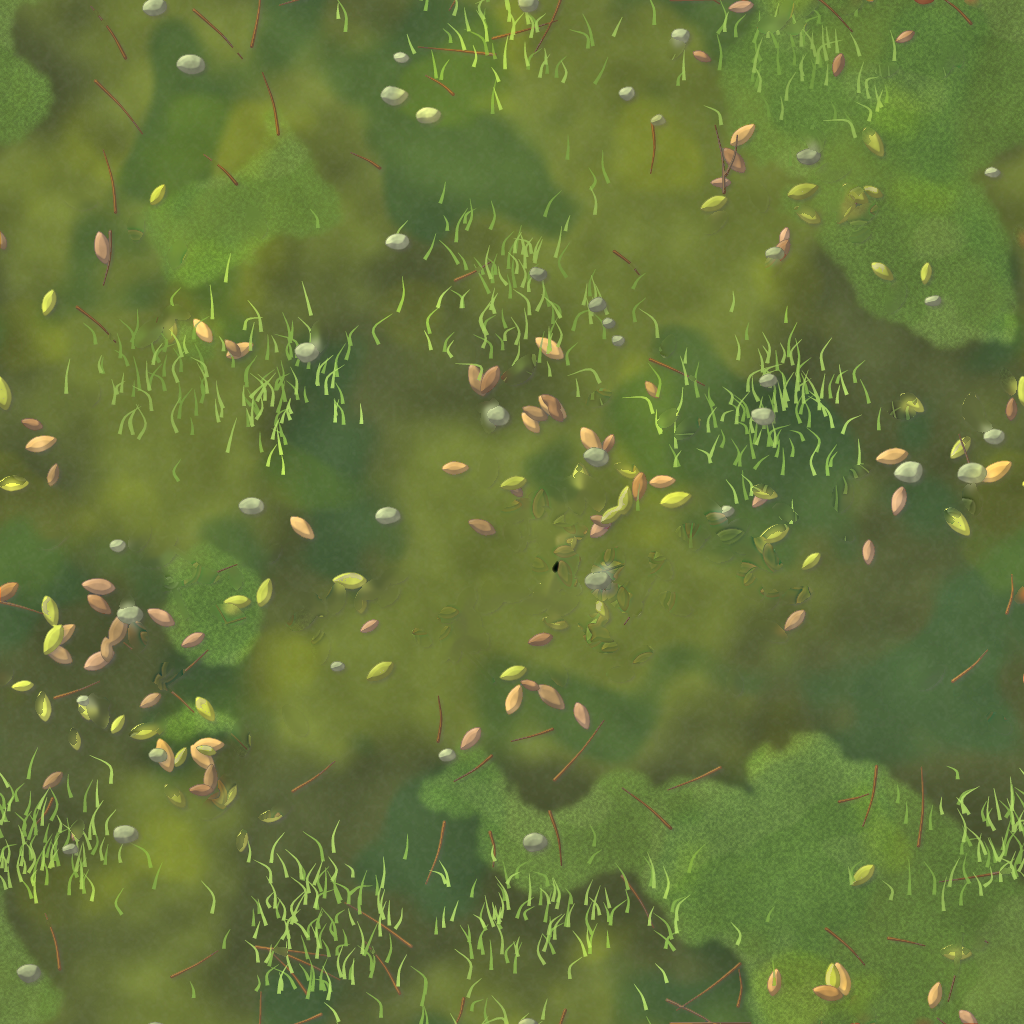
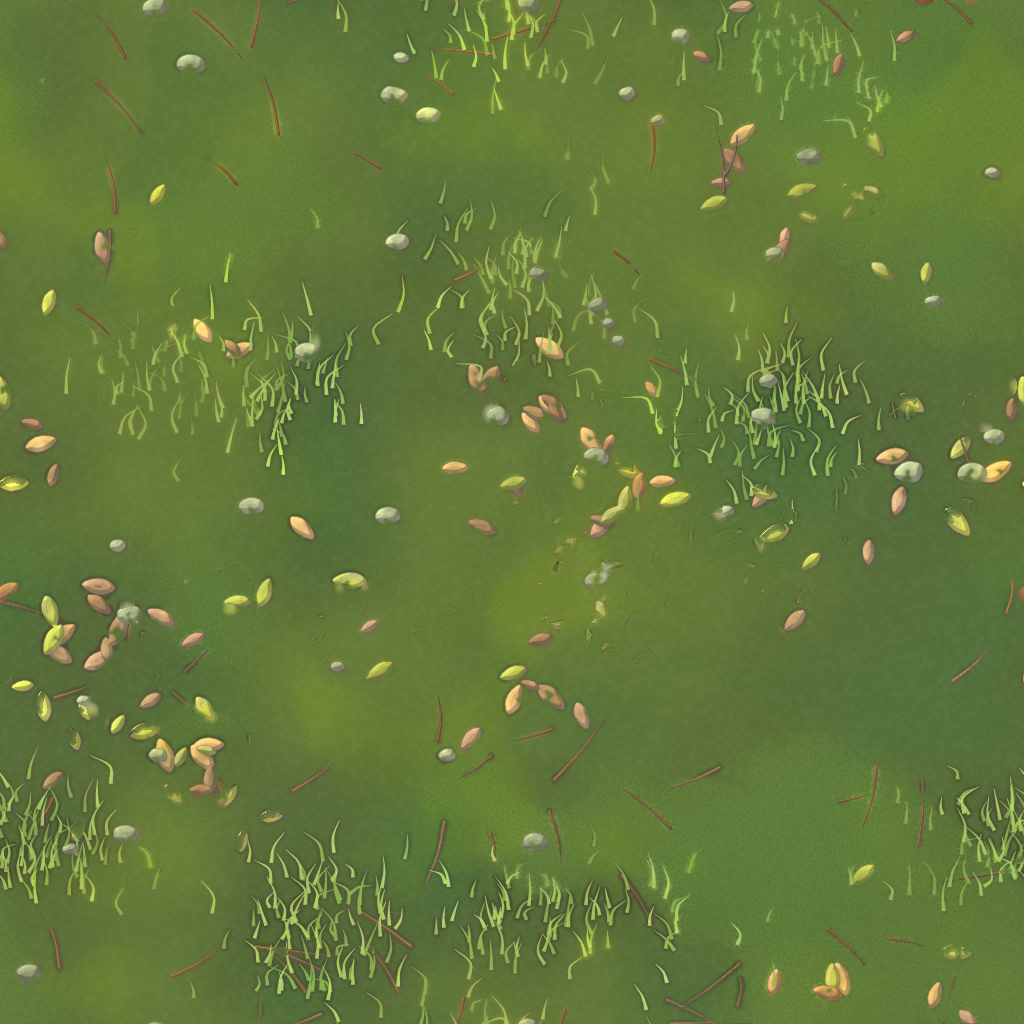
Lanternvale 3D: environment & lighting fixes (review round 3)
- Golden hour is the showcase light: a golden-hour layer (DayNight.Golden, 0..1 from late afternoon to sunset, a
  little at sunrise) over retuned 17.8 / 19.4 keys raises the honey-gold sun, lowers the cool teal-blue fill, lifts
  the light's elevation floor (14 -> 22 deg) so the meadow catches the low sun, adds a warm rim on silhouettes, a
  soft warm haze in the distance and a saturation lift of sunlit colours (new shader global _LV_Warmth.x). Meadow at
  18h: hue 62, sat 0.50 (was 69 / 0.38, grey-olive); 19.2h: hue 61, sat 0.41-0.49 (was 42, khaki). Noon and night
  unchanged; fixed-time maps (the shrine's authored violet dusk) opt out of the golden layer.
- Night lamp pools stay amber on every ground: yellower lamp amber, lamplit colours lean to amber (_LV_Warmth.y) and
  under a pool the cool moon fill greys out and yields (_LV_Warmth.z), so warm + blue passes through warm grey, never
  pink (path under a lamp: hue 23-25, was 352-357).
- Whisperwood floor: ground_forest.png regraded again: leaves/twigs/pebbles/blades kept as painted, the ground under
  them rebuilt with the blotch contrast halved, the crisp island edges removed (edge band 8 %), the moss speckle
  evened out, cooler shadow green and gentle warm sun dapples, a touch fresher green — one continuous sunlit moss.
- The Great Camphor's crown is told on the plaza: a flat dappled canopy shade with sun flecks (MapTerrain blot).
[…]

diff --git a/Lanternvale/Assets/Lanternvale/Scripts/Game/World/DayNight.cs b/Lanternvale/Assets/Lanternvale/Scripts/Game/World/DayNight.cs
@@ -66,6 +66,16 @@ namespace Lanternvale.Game
         public Color SunGlow { get; private set; } = new Color(1f, 0.8f, 0.6f, 0f);
         /// <summary>Approximate brightness of the lit scene 0..1 (for unlit sprites that must follow the mood).</summary>
         public float LightLevel { get; private set; } = 1f;
+        /// <summary>
+        /// The shader global _LV_Warmth (MapView): x = golden-hour saturation lift of sunlit colours, y = how far lamplit
+        /// colours lean to amber at night, z = how much a lamp pool greys out and dims the cool night fill under it; zero by
+        /// day.
+        /// </summary>
+        public Vector4 Warmth { get; private set; }
+        /// <summary>0..1: how golden the hour is (GoldenAt): MapView hazes the distance warm by it.</summary>
+        public float Golden { get; private set; }
+        /// <summary>The warm haze golden hour lends the distance (fog colour blend, MapView.ApplyMood).</summary>
+        public static readonly Color GoldenHaze = new Color(1f, 0.80f, 0.55f);
 
         public DayNight() { }
 
@@ -187,10 +197,14 @@ namespace Lanternvale.Game
                            DaySun, 0.95f, DaySky, DayGround, 0.75f, 0f),
             new Key(15.5f, new Color(1.00f, 0.96f, 0.88f), 1.00f, Color.white, new Color(1.00f, 0.93f, 0.80f), 0.12f, NoOver, 0f,
                            new Color(1.00f, 0.91f, 0.76f), 0.93f, new Color(0.63f, 0.67f, 0.80f), new Color(0.43f, 0.38f, 0.33f), 0.75f, 0f),
+            // golden hour: a honey-gold sun, a cool teal-blue fill in the shade, a warm bounce from the sunlit meadow; the
+            // golden-hour boost (Golden) then lets the sun carry the light so greens glow instead of greying
             new Key(17.8f, new Color(1.00f, 0.80f, 0.66f), 0.90f, new Color(0.56f, 0.55f, 0.80f), new Color(1.00f, 0.70f, 0.50f), 0.60f, new Color(0.95f, 0.50f, 0.40f, 0.14f), 0.22f,
-                           new Color(1.00f, 0.82f, 0.62f), 0.9f, new Color(0.58f, 0.64f, 0.86f), new Color(0.42f, 0.40f, 0.32f), 0.8f, 0.25f),
+                           new Color(1.00f, 0.82f, 0.54f), 1.0f, new Color(0.50f, 0.62f, 0.84f), new Color(0.46f, 0.42f, 0.28f), 0.75f, 0.22f),
+            // dusk: the sun sinks low and gold (yellow enough that the grass stays green, not khaki) under a rose sky, the
+            // fill turns violet-blue and takes over
             new Key(19.4f, new Color(0.80f, 0.60f, 0.78f), 0.75f, new Color(0.30f, 0.27f, 0.55f), new Color(0.95f, 0.56f, 0.50f), 0.76f, new Color(0.40f, 0.25f, 0.46f, 0.28f), 0.60f,
-                           new Color(1.00f, 0.66f, 0.50f), 0.66f, new Color(0.48f, 0.50f, 0.80f), new Color(0.28f, 0.26f, 0.30f), 0.76f, 0.62f),
+                           new Color(1.00f, 0.82f, 0.58f), 0.72f, new Color(0.44f, 0.54f, 0.86f), new Color(0.36f, 0.34f, 0.30f), 0.75f, 0.62f),
             new Key(20.9f, new Color(0.50f, 0.53f, 0.86f), 0.64f, new Color(0.08f, 0.10f, 0.25f), new Color(0.25f, 0.25f, 0.48f), 0.90f, new Color(0.07f, 0.09f, 0.26f, 0.45f), 0.94f,
                            Moon, MoonI * 0.95f, NightSky, NightGround, NightAmbI, 0.95f),
             new Key(24f,   NightAmb, 0.62f, NightTop, NightBot, 0.92f, NightOver, 1f, Moon, MoonI, NightSky, NightGround, NightAmbI, 1f),
@@ -200,6 +214,25 @@ namespace Lanternvale.Game
         public const float Sunrise = 5.9f, Sunset = 19.5f;
 
         static Color Mul(Color a, Color b) => new Color(a.r * b.r, a.g * b.g, a.b * b.b, 1f);
+
+        /// <summary>The lowest elevation (degrees) the light comes from, however low the sun's disc; at golden hour a
+        /// little higher, so the meadow catches the low sun.</summary>
+        public const float LightElevationFloor = 14f, GoldenElevationFloor = 22f;
+        /// <summary>Golden hour at its peak: the sun's intensity raised, the cool fill lowered (so the sun carries the
+        /// light), and the saturation lift of sunlit colours (Warmth.x).</summary>
+        public const float GoldenSunBoost = 0.36f, GoldenFillCut = 0.23f, GoldenLift = 0.12f;
+        /// <summary>Deep night: how far lamplit colours lean to amber (Warmth.y) and how much a lamp pool greys out and
+        /// dims the cool fill under it (Warmth.z).</summary>
+        public const float LampAmberPull = 0.45f, LampMoonMask = 0.8f;
+
+        /// <summary>0..1: how golden the hour is — full from late afternoon to sunset, a little at sunrise.</summary>
+        public static float GoldenAt(float hour)
+        {
+            hour = Mathf.Repeat(hour, 24f);
+            float dusk = Mathf.SmoothStep(0f, 1f, Mathf.Clamp01((hour - 15.6f) / 1.6f)) * (1f - Mathf.SmoothStep(0f, 1f, Mathf.Clamp01((hour - 19.4f) / 1.2f)));
+            float dawn = Mathf.SmoothStep(0f, 1f, Mathf.Clamp01((hour - 5.5f) / 0.9f)) * (1f - Mathf.SmoothStep(0f, 1f, Mathf.Clamp01((hour - 7.4f) / 1.4f)));
+            return Mathf.Max(dusk, dawn * 0.6f);
+        }
 
         void Evaluate(float hour)
         {
@@ -245,8 +278,12 @@ namespace Lanternvale.Game
             float sx = Mathf.Sin(az), sy = -Mathf.Max(0.3f, Mathf.Cos(az));
             float hl = Mathf.Sqrt(sx * sx + sy * sy);
             sx /= hl; sy /= hl;
-            // lighting never grazes: a low sun still lights the ground softly (painterly, no cast shadows)
-            float le = Mathf.Max(elev, 14f) * Mathf.Deg2Rad;
+            // golden hour (not on a fixed-time map: it keeps the mood its authored sky was painted for — the shrine's
+            // violet dusk)
+            Golden = UsesAuthoredSky ? 0f : GoldenAt(Hour);
+            // lighting never grazes: a low sun still lights the ground softly (painterly, no cast shadows), and at
+            // golden hour the meadow catches the warm light instead of falling to the fill
+            float le = Mathf.Max(elev, Mathf.Lerp(LightElevationFloor, GoldenElevationFloor, Golden)) * Mathf.Deg2Rad;
             var sunLight = new Vector3(sx * Mathf.Cos(le), sy * Mathf.Cos(le), -Mathf.Sin(le));
             var moonLight = new Vector3(0.47f, -0.56f, -0.68f);
             float moonW = Mathf.SmoothStep(0f, 1f, Mathf.Clamp01((NightFactor - 0.35f) / 0.45f));
@@ -272,11 +309,17 @@ namespace Lanternvale.Game
             var mapLight = Color.Lerp(new Color(ml, ml, ml, 1f), MapAmbient, 0.65f);
             var sun = Color.Lerp(a.sun, b.sun, t);
             LightColor = Mul(sun, mapLight);
-            LightIntensity = Mathf.Lerp(a.sunI, b.sunI, t) * mai;
+            LightIntensity = Mathf.Lerp(a.sunI, b.sunI, t) * mai * (1f + GoldenSunBoost * Golden);
             SkyAmbient = Mul(Color.Lerp(a.skyAmb, b.skyAmb, t), mapLight);
             GroundAmbient = Mul(Color.Lerp(a.groundAmb, b.groundAmb, t), mapLight);
-            SceneAmbientIntensity = Mathf.Lerp(a.ambI, b.ambI, t) * mai;
+            SceneAmbientIntensity = Mathf.Lerp(a.ambI, b.ambI, t) * mai * (1f - GoldenFillCut * Golden);
             NightGlow = Mathf.Lerp(a.glow, b.glow, t);
+
+            // warmth (_LV_Warmth): the golden lift around sunrise and sunset, amber lamp pools as night falls (the fill
+            // greys under lamps only once it is the night's blue: at dusk it is still the warm sunlit ground)
+            float nightK = Mathf.SmoothStep(0f, 1f, Mathf.Clamp01((NightFactor - 0.3f) / 0.5f));
+            float deepK = Mathf.SmoothStep(0f, 1f, Mathf.Clamp01((NightFactor - 0.62f) / 0.3f));
+            Warmth = new Vector4(Golden * GoldenLift, LampAmberPull * nightK, LampMoonMask * deepK, 0f);
 
             var lc = LightColor;
             var sk = SkyAmbient;
@@ -287,7 +330,7 @@ namespace Lanternvale.Game
 
         // ------------------------------------------------------------------ lamplight
 
-        static readonly Color Amber = new Color(1f, 0.68f, 0.38f);
+        static readonly Color Amber = new Color(1f, 0.78f, 0.46f);
 
         /// <summary>
         /// A lamp's / window's light colour at a night factor: warm whites and yellows deepen towards amber as night
@@ -332,7 +375,8 @@ namespace Lanternvale.Game
             SceneLighting.AmbientIntensity = SceneAmbientIntensity;
             SceneLighting.NightGlow = NightGlow;
             var rim = Color.Lerp(Color.Lerp(LightColor, Color.white, 0.45f), new Color(0.62f, 0.72f, 1f), Mathf.Clamp01(NightFactor));
-            SceneLighting.RimColor = rim;
+            // golden hour: silhouettes catch a warm glowing edge
+            SceneLighting.RimColor = rim * (1f + 0.6f * Golden);
         }
 
         /// <summary>

diff --git a/Lanternvale/Tools/preview3d/Render/Shading.cs b/Lanternvale/Tools/preview3d/Render/Shading.cs
@@ -49,6 +49,10 @@ namespace Lanternvale.Preview
         /// <summary>_LV_Grade (MapView): night grade amount and the tint the graded luma takes.</summary>
         public float Grade;
         public V3 GradeTint = new V3(1, 1, 1);
+        /// <summary>_LV_Warmth (MapView): golden-hour saturation lift (x), lamplight amber pull (y), lamp pool masking
+        /// the cool fill (z). Zero = off.</summary>
+        public float GoldenLift, LampAmber, LampMask;
+        static readonly V3 LampAmberTint = new V3(1.3f, 1f, 0.5f);
         public int LightCount;
         public readonly V3[] LPos = new V3[MaxLights];
         public readonly V3[] LCol = new V3[MaxLights];
@@ -113,10 +117,7 @@ namespace Lanternvale.Preview
         /// <summary>LV_LightSplit: sun and hemisphere ambient; the point lights separately.</summary>
         public V3 LightSplit(V3 wp, V3 n, out V3 points)
         {
-            float ndl = V3.Dot(n, SunDir);
-            float wrap = Mathf.Clamp01((ndl + 0.45f) / 1.45f);
-            float ramp = wrap * wrap * (3f - 2f * wrap);
-            var light = SunCol * ramp;
+            var light = SunCol * SunRamp(n);
             float hemi = -n.z * 0.5f + 0.5f;
             light = light + V3.Lerp(GroundAmb, SkyAmb, hemi);
             points = new V3(0, 0, 0);
@@ -134,6 +135,16 @@ namespace Lanternvale.Preview
             return light;
         }
 
+        /// <summary>LV_SunRamp: wrapped diffuse eased into a soft ramp.</summary>
+        public float SunRamp(V3 n)
+        {
+            float ndl = V3.Dot(n, SunDir);
+            float wrap = Mathf.Clamp01((ndl + 0.45f) / 1.45f);
+            return wrap * wrap * (3f - 2f * wrap);
+        }
+
+        static float Luma(V3 c) => c.x * 0.3f + c.y * 0.59f + c.z * 0.11f;
+
         /// <summary>LV_Shade: lit albedo + rim + emission, then fog.</summary>
         public V3 Shade(V3 wp, V3 n, V3 albedo, float emission, float rimBoost, float fogScale)
         {
@@ -149,9 +160,30 @@ namespace Lanternvale.Preview
                 float l = albedo.x * 0.3f + albedo.y * 0.59f + albedo.z * 0.11f;
                 moonlit = V3.Lerp(albedo, GradeTint * l, Mathf.Clamp01(Grade));
             }
-            var col = moonlit * b + albedo * pts;
+            var col = moonlit * b;
+            var lampAlbedo = albedo;
+            if (LampAmber > 0f || LampMask > 0f)
+            {
+                // lamp pools: amber on any ground, and under them the warm light wins over the blue fill
+                lampAlbedo = V3.Lerp(albedo, LampAmberTint * Luma(albedo), Mathf.Clamp01(LampAmber));
+                // towards a pool the cool fill greys out (blue + warm passes through warm grey, never pink) and yields
+                float pl = Luma(pts);
+                float share = pl / Math.Max(pl + Luma(b), 0.0001f);
+                float z = Mathf.Clamp01(LampMask);
+                float cl0 = Luma(col);
+                col = V3.Lerp(col, new V3(cl0, cl0, cl0), Mathf.Clamp01(z * share * 4f)) * (1f - 0.5f * z * share);
+            }
+            col = col + lampAlbedo * pts;
+            if (GoldenLift > 0f)
+            {
+                // golden hour: sunlit colours richer, the cool-lit shade as it is
+                float sunShare = Mathf.Clamp01(Luma(SunCol) * SunRamp(n) / Math.Max(Luma(light), 0.0001f));
+                float cl = Luma(col);
+                float k = 1f + GoldenLift * sunShare;
+                col = new V3(Math.Max(0f, cl + (col.x - cl) * k), Math.Max(0f, cl + (col.y - cl) * k), Math.Max(0f, cl + (col.z - cl) * k));
+            }
             float rim = Mathf.Pow(1f - Mathf.Clamp01(V3.Dot(n, view)), Math.Max(RimPower, 0.5f));
-            float lum = light.x * 0.3f + light.y * 0.59f + light.z * 0.11f;
+            float lum = Luma(light);
             col = col + RimCol * (rim * (0.22f * Mathf.Clamp01(lum) + rimBoost));
             float e = Mathf.Clamp01(emission);
             if (e > 0f) col = V3.Lerp(col, albedo * (1f + NightGlow), e);

diff --git a/Lanternvale/Assets/Lanternvale/Scripts/Game/World/MapTerrain.cs b/Lanternvale/Assets/Lanternvale/Scripts/Game/World/MapTerrain.cs
@@ -29,7 +29,8 @@ namespace Lanternvale.Game
         readonly List<Mesh> owned;
         readonly Transform root;
 
-        struct Blot { public Vector2 p; public float r; public Color tint; public float k; }
+        /// <summary>A soft shade on the ground; dapple: broken by sun flecks (a great canopy far overhead).</summary>
+        struct Blot { public Vector2 p; public float r; public Color tint; public float k; public bool dapple; }
         readonly List<Blot> blots = new List<Blot>();
         readonly List<Vector2> corridors = new List<Vector2>();   // x: −1 left / +1 right, y: centre
 
@@ -167,7 +168,8 @@ namespace Lanternvale.Game
                 float sc = p.scale > 0f ? p.scale : 1f;
                 string a = p.art;
                 if (a.StartsWith("decal_")) continue;
-                if (a.Contains("tree_great")) blots.Add(new Blot { p = pos + new Vector2(0f, 1f), r = 10f * sc, tint = new Color(0.66f, 0.74f, 0.78f), k = 0.75f });
+                // the great tree's crown is far above the camera's view: its dappled shade on the plaza tells of it
+                if (a.Contains("tree_great")) blots.Add(new Blot { p = pos + new Vector2(0f, 1f), r = 11f * sc, tint = new Color(0.62f, 0.72f, 0.80f), k = 0.85f, dapple = true });
                 else if (a.Contains("tree_dead")) blots.Add(new Blot { p = pos, r = 2f * sc, tint = new Color(0.8f, 0.8f, 0.84f), k = 0.5f });
                 // under a forest's canopies the shade stays soft (the floor is already a deep green)
                 else if (a.Contains("tree")) blots.Add(new Blot { p = pos + new Vector2(0f, 0.3f), r = 3.6f * sc, tint = new Color(0.68f, 0.76f, 0.78f), k = forest ? 0.45f : 0.7f });
@@ -578,6 +580,13 @@ namespace Lanternvale.Game
                 float d2 = (dx * dx + dy * dy) / (b.r * b.r);
                 if (d2 >= 1f) continue;
                 float f = (1f - d2) * (1f - d2) * b.k;
+                if (b.dapple)
+                {
+                    // a flat-topped shade (the crown's footprint) broken by round sun flecks
+                    f = Smooth(0f, 0.55f, 1f - d2) * b.k;
+                    float fleck = Mathf.PerlinNoise(x * 0.62f + s2, y * 0.7f + s5) * 0.7f + Mathf.PerlinNoise(x * 1.5f + s6, y * 1.6f + s3) * 0.3f;
+                    f *= Mathf.Lerp(1.1f, 0.15f, Smooth(0.5f, 0.62f, fleck));
+                }
                 c = new Color(c.r * Mathf.Lerp(1f, b.tint.r, f), c.g * Mathf.Lerp(1f, b.tint.g, f), c.b * Mathf.Lerp(1f, b.tint.b, f));
             }
             // the roads out of the map: warmer, worn ground (near the village the dirt texture shows it, tint the meadow)

diff --git a/Lanternvale/Assets/Lanternvale/Scripts/Game/World/MapView.cs b/Lanternvale/Assets/Lanternvale/Scripts/Game/World/MapView.cs
@@ -224,6 +224,7 @@ namespace Lanternvale.Game
 
         static readonly MaterialPropertyBlock Mpb = new MaterialPropertyBlock();
         static readonly int GradeId = Shader.PropertyToID("_LV_Grade");
+        static readonly int WarmthId = Shader.PropertyToID("_LV_Warmth");
         readonly List<Rect> postObstacles = new List<Rect>();
 
         // ================================================================== building
@@ -920,15 +921,20 @@ namespace Lanternvale.Game
             DayNight.ApplyTo();
             var horizon = sky.Horizon;
             var fog = Color.Lerp(horizon, sky.Zenith, fogZenith);
+            // golden hour: the low sun's glow hangs warm in the distance
+            float gold = DayNight.Golden;
+            fog = Color.Lerp(fog, DayNight.GoldenHaze, 0.3f * gold);
             HazeColor = fog;
             SceneLighting.FogColor = fog;
-            SceneLighting.FogStart = fogStart;
+            SceneLighting.FogStart = Mathf.Lerp(fogStart, fogStart * 0.7f, gold);
             SceneLighting.FogEnd = fogEnd;
             SceneLighting.FogMax = 0.85f;
             SceneLighting.WindStrength = windStrength;
             // night grade: moonlit colours cool towards blue-grey, lamplight keeps its warmth (LanternvaleCommon.cginc)
             var gt = DayNight.NightGradeTint;
             Shader.SetGlobalVector(GradeId, new Vector4(DayNight.NightGrade, gt.x, gt.y, gt.z));
+            // warmth: richer sunlit colours at golden hour, amber lamp pools at night (LanternvaleCommon.cginc)
+            Shader.SetGlobalVector(WarmthId, DayNight.Warmth);
             if (cam != null) cam.backgroundColor = horizon;
         }
 
@@ -1622,6 +1628,7 @@ namespace Lanternvale.Game
             {
                 Current = null;
                 Shader.SetGlobalVector(GradeId, Vector4.zero);   // no night grade outside a map
+                Shader.SetGlobalVector(WarmthId, Vector4.zero);  // nor warmth
             }
         }
 

diff --git a/Lanternvale/Tools/preview3d/Scene/MapScene.cs b/Lanternvale/Tools/preview3d/Scene/MapScene.cs
@@ -158,6 +158,11 @@ namespace Lanternvale.Preview
             // as MapView.ApplyMood: the night grade (_LV_Grade)
             Lighting.Grade = DayNight.NightGrade;
             Lighting.GradeTint = new V3(DayNight.NightGradeTint.x, DayNight.NightGradeTint.y, DayNight.NightGradeTint.z);
+            // ... and the warmth (_LV_Warmth): golden-hour lift, amber lamp pools
+            var wm = DayNight.Warmth;
+            Lighting.GoldenLift = wm.x;
+            Lighting.LampAmber = wm.y;
+            Lighting.LampMask = wm.z;
             LightCount = Lighting.LightCount;
         }
 
@@ -607,8 +612,11 @@ namespace Lanternvale.Preview
             DayNight.ApplyTo();
             var horizon = sky.Horizon;
             var fog = Color.Lerp(horizon, sky.Zenith, fogZenith);
+            // golden hour: the low sun's glow hangs warm in the distance
+            float gold = DayNight.Golden;
+            fog = Color.Lerp(fog, DayNight.GoldenHaze, 0.3f * gold);
             SceneLighting.FogColor = fog;
-            SceneLighting.FogStart = fogStart;
+            SceneLighting.FogStart = Mathf.Lerp(fogStart, fogStart * 0.7f, gold);
             SceneLighting.FogEnd = fogEnd;
             SceneLighting.FogMax = 0.85f;
             SceneLighting.WindStrength = windStrength;
